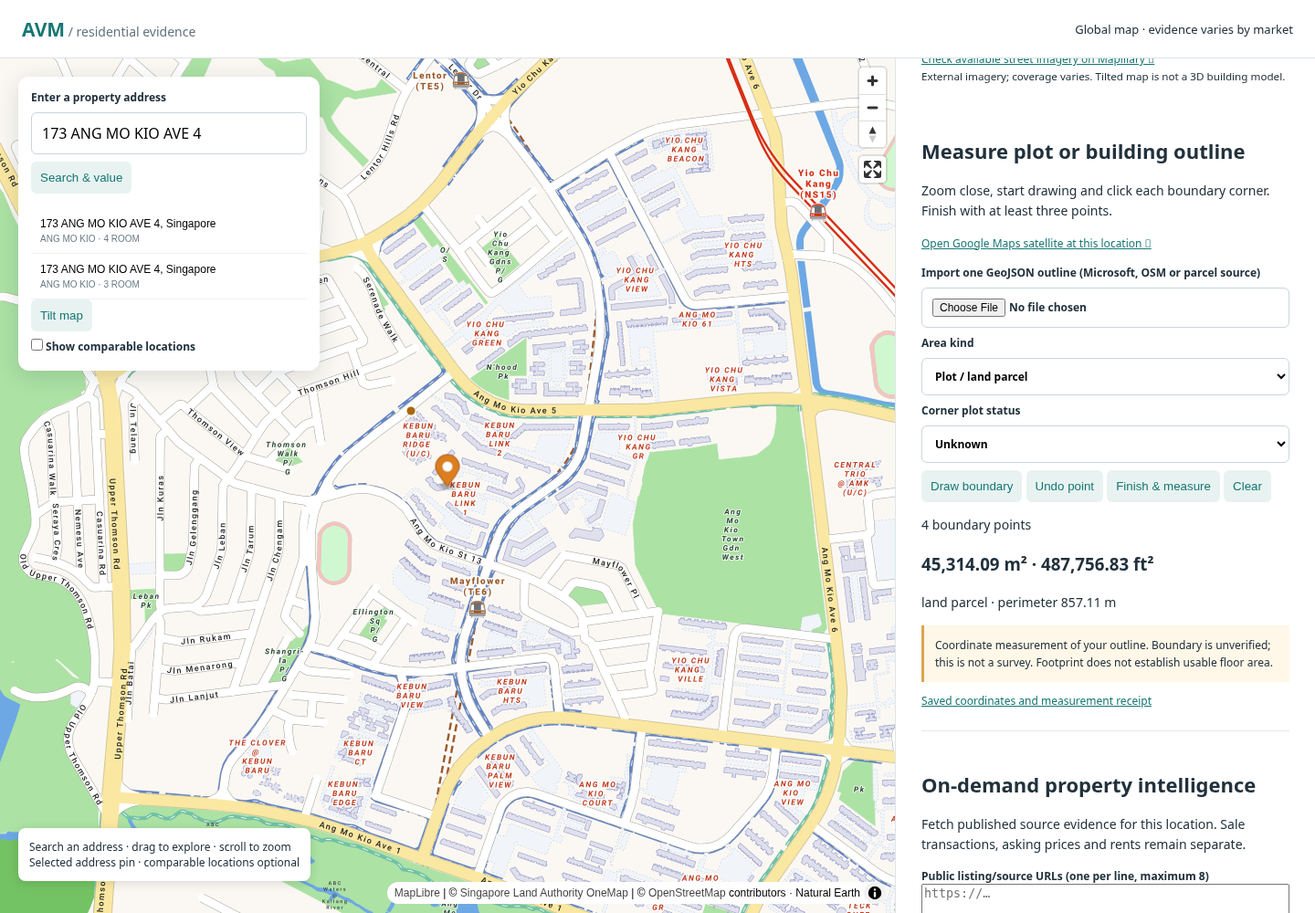
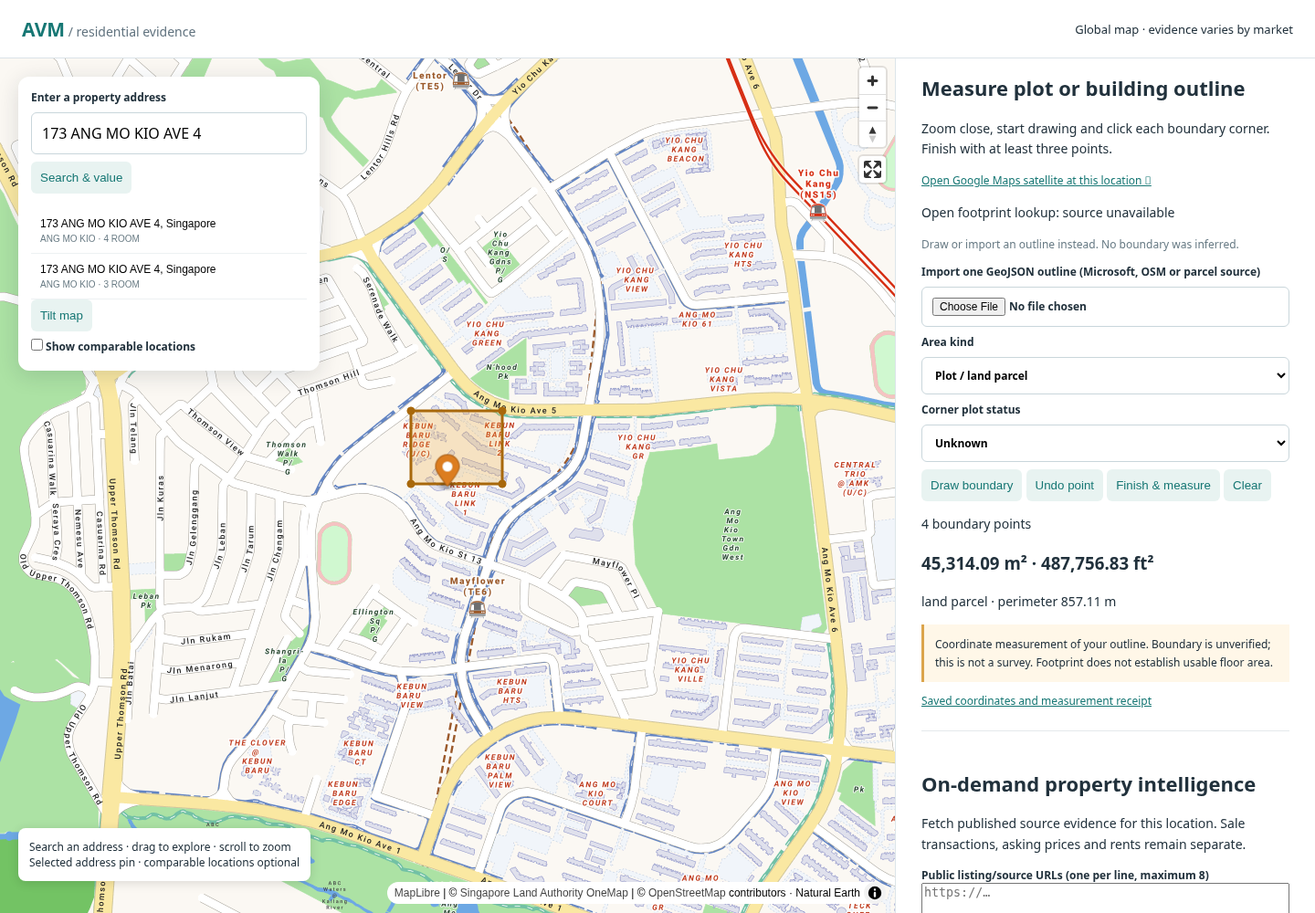
Add optional search and Google imagery with free OSM footprint lookup and PostGIS measurements

diff --git a/frontend/src/GeometryPanel.jsx b/frontend/src/GeometryPanel.jsx
@@ -2,6 +2,8 @@ import React,{useEffect,useState} from 'react';
 export default function GeometryPanel({map,latitude,longitude}) {
   const [drawing,setDrawing]=useState(false),[vertices,setVertices]=useState([]),[kind,setKind]=useState('land parcel'),[corner,setCorner]=useState('unknown'),[result,setResult]=useState(null),[error,setError]=useState('');
   const [source,setSource]=useState('user-drawn outline');
+  const [footprints,setFootprints]=useState(null);
+  useEffect(()=>{const controller=new AbortController();setFootprints(null);fetch(`/footprints?latitude=${latitude}&longitude=${longitude}`,{signal:controller.signal}).then(r=>{if(!r.ok)throw Error();return r.json()}).then(setFootprints).catch(()=>{if(!controller.signal.aborted)setFootprints({status:"source unavailable",features:[],limits:"Draw or import an outline instead."})});return()=>controller.abort()},[latitude,longitude]);
   useEffect(()=>{setDrawing(false);setVertices([]);setResult(null)},[latitude,longitude]);
   useEffect(()=>{if(!map)return;map.__measuring=drawing;const click=e=>{if(drawing){setVertices(v=>[...v,[e.lngLat.lng,e.lngLat.lat]]);setResult(null)}};map.on('click',click);if(drawing)map.getCanvas().style.cursor='crosshair';return()=>{map.off('click',click);map.__measuring=false;map.getCanvas().style.cursor=''}},[map,drawing]);
   useEffect(()=>{
@@ -18,6 +20,7 @@ export default function GeometryPanel({map,latitude,longitude}) {
   async function finish(){setDrawing(false);setError('');try{const r=await fetch('/measurements',{method:'POST',headers:{'Content-Type':'application/json'},body:JSON.stringify({coordinates:vertices,area_kind:kind,corner_status:corner,source})});const body=await r.json();if(!r.ok)throw Error(typeof body.detail==='string'?body.detail:'Check coordinates');setResult(body)}catch(e){setError(e.message)}}
   async function importOutline(event){try{const file=event.target.files[0];if(!file)return;if(file.size>2000000)throw Error('Use a single outline file smaller than 2 MB');let data=JSON.parse(await file.text());if(data.type==='FeatureCollection'){if(data.features.length!==1)throw Error('Import one property outline at a time');data=data.features[0]}const geometry=data.type==='Feature'?data.geometry:data;if(geometry.type!=='Polygon'||geometry.coordinates.length!==1)throw Error('Use a single Polygon without holes');const ring=geometry.coordinates[0];if(ring.length<4||ring.length>201||ring.some(p=>!Array.isArray(p)||p.length!==2||!p.every(Number.isFinite)))throw Error('Invalid polygon coordinates');if(JSON.stringify(ring[0])!==JSON.stringify(ring[ring.length-1]))throw Error('Polygon ring must be closed');setVertices(ring.slice(0,-1));setSource('Imported GeoJSON (user supplied): '+file.name);setDrawing(false);setResult(null);setError('');map.flyTo({center:ring[0],zoom:19})}catch(e){setError(e.message)}event.target.value=''}
   return <section><h2>Measure plot or building outline</h2><p>Zoom close, start drawing and click each boundary corner. Finish with at least three points.</p><p><a href={`https://www.google.com/maps/@${latitude},${longitude},19z/data=!3m1!1e3`} target="_blank" rel="noreferrer">Open Google Maps satellite at this location ↗</a></p>
+    <p>Open footprint lookup: {footprints?.status||'checking nearby mapped buildings'}</p>{footprints?.features.slice(0,5).map(f=><button className="secondary" key={f.properties.id} onClick={()=>{setVertices(f.geometry.coordinates[0].slice(0,-1));setKind('building footprint');setSource(f.properties.source);setDrawing(false);setResult(null)}}>Use mapped building {f.properties.id} · {f.properties.area_sqm} m²</button>)}{footprints&&<p className="muted">{footprints.limits}</p>}
     <label>Import one GeoJSON outline (Microsoft, OSM or parcel source)<input aria-label="Import outline" type="file" accept=".json,.geojson,application/json" onChange={importOutline}/></label>
     <label>Area kind<select aria-label="Area kind" value={kind} onChange={e=>{setKind(e.target.value);setResult(null)}}><option value="land parcel">Plot / land parcel</option><option value="building footprint">Building ground footprint</option></select></label>
     <label>Corner plot status<select value={corner} onChange={e=>{setCorner(e.target.value);setResult(null)}}><option value="unknown">Unknown</option><option value="user confirmed corner">I confirm it is a corner plot</option><option value="user confirmed not corner">I confirm it is not a corner plot</option></select></label>

diff --git a/frontend/src/ImageryPanel.jsx b/frontend/src/ImageryPanel.jsx
@@ -1,0 +1,21 @@
+import React,{useEffect,useRef,useState} from 'react';
+let cesiumLoader;
+function loadCesium(){if(window.Cesium)return Promise.resolve(window.Cesium);if(!cesiumLoader)cesiumLoader=new Promise((resolve,reject)=>{const base='https://cdn.jsdelivr.net/npm/cesium@1.134.1/Build/Cesium/';window.CESIUM_BASE_URL=base;const css=document.createElement('link');css.rel='stylesheet';css.href=base+'Widgets/widgets.css';document.head.appendChild(css);const script=document.createElement('script');script.src=base+'Cesium.js';script.onload=()=>resolve(window.Cesium);script.onerror=()=>{cesiumLoader=null;reject(Error('3D viewer unavailable'))};document.head.appendChild(script)});return cesiumLoader;}
+function GoogleTiles({config,latitude,longitude,onFailure}){
+  const element=useRef(null);
+  useEffect(()=>{let disposed=false,viewer;loadCesium().then(async C=>{if(disposed)return;viewer=new C.Viewer(element.current,{baseLayer:false,globe:false,animation:false,timeline:false,geocoder:false,sceneModePicker:false,baseLayerPicker:false,navigationHelpButton:false,homeButton:false});const tiles=await C.createGooglePhotorealistic3DTileset({key:config.browser_key});if(disposed){tiles.destroy();return}viewer.scene.primitives.add(tiles);viewer.camera.lookAt(C.Cartesian3.fromDegrees(longitude,latitude),new C.HeadingPitchRange(0,C.Math.toRadians(-45),600));viewer.camera.lookAtTransform(C.Matrix4.IDENTITY)}).catch(()=>{if(!disposed)onFailure()});return()=>{disposed=true;if(viewer&&!viewer.isDestroyed())viewer.destroy()}},[config.browser_key,latitude,longitude]);
+  return <div ref={element} style={{height:360,width:'100%'}} aria-label="Google photorealistic 3D tiles"/>;
+}
+export default function ImageryPanel({latitude,longitude}){
+  const [config,setConfig]=useState(null),[mode,setMode]=useState('fallback'),[failed,setFailed]=useState(false);
+  useEffect(()=>{const controller=new AbortController();setConfig(null);setMode('fallback');setFailed(false);fetch(`/imagery?latitude=${latitude}&longitude=${longitude}`,{signal:controller.signal}).then(r=>{if(!r.ok)throw Error();return r.json()}).then(c=>{setConfig(c);if(c.street_view==='available')setMode('street')}).catch(()=>{if(!controller.signal.aborted)setConfig({street_view:"unavailable",browser_key:null,three_d_enabled:false})});return()=>controller.abort()},[latitude,longitude]);
+  const params=new URLSearchParams({key:config?.browser_key||''});
+  if(mode==='street'){if(config?.panorama_id)params.set('pano',config.panorama_id);else params.set('location',`${latitude},${longitude}`)}else{params.set('center',`${latitude},${longitude}`);params.set('zoom','18');params.set('maptype','satellite')}
+  return <section><h2>Street imagery and 3D context</h2><p>Street View: {config?.street_view||'checking availability'}</p>
+    {config?.street_view==='available'&&<button className="secondary" onClick={()=>{setMode('street');setFailed(false)}}>360° Street View</button>}{' '}
+    {config?.browser_key&&<button className="secondary" onClick={()=>{setMode('satellite');setFailed(false)}}>Satellite</button>}{' '}
+    {config?.three_d_enabled&&<button className="secondary" onClick={()=>{setMode('3d');setFailed(false)}}>Google photorealistic 3D</button>}
+    {mode==='3d'&&!failed?<GoogleTiles config={config} latitude={latitude} longitude={longitude} onFailure={()=>{setFailed(true);setMode('satellite')}}/>:config?.browser_key&&mode!=='fallback'?<iframe title={mode==='street'?'Google 360 degree Street View':'Google satellite view'} width="100%" height="320" style={{border:0}} loading="lazy" allowFullScreen referrerPolicy="no-referrer-when-downgrade" src={`https://www.google.com/maps/embed/v1/${mode==='street'?'streetview':'view'}?${params}`}/>:<p className="muted">Google API keys are not configured. OpenStreetMap and outline measurement remain available.</p>}
+    {failed&&<p>3D unavailable; switched to satellite view. Coverage and API permissions vary.</p>}<p><a href={`https://www.google.com/maps/@${latitude},${longitude},19z/data=!3m1!1e3`} target="_blank" rel="noreferrer">Open satellite viewer ↗</a></p><p className="muted">Imagery shows visual context, not verified parcel boundaries. Google services require enabled APIs, appropriate keys and applicable billing.</p>
+  </section>;
+}

diff --git a/frontend/src/main.jsx b/frontend/src/main.jsx
@@ -5,6 +5,7 @@ import 'maplibre-gl/dist/maplibre-gl.css';
 import './style.css';
 import EvidencePanel from './EvidencePanel';
 import GeometryPanel from './GeometryPanel';
+import ImageryPanel from './ImageryPanel';
 const money=n=>n==null?'Unavailable':new Intl.NumberFormat('en-SG',{style:'currency',currency:'SGD',maximumFractionDigits:0}).format(n);
 async function api(path,options){const r=await fetch(path,options);if(!r.ok)throw Error((await r.json()).detail||'Request failed');return r.json();}
 function Timeline({result}){
@@ -82,6 +83,7 @@ function App(){
       </>}
     </>}{!selected&&error&&<p role="alert">{error}</p>}
     {(location||selected)&&<p><a target="_blank" rel="noreferrer" href={'https://www.mapillary.com/app/?lat='+(location?location.lat:selected.latitude)+'&lng='+(location?location.lon:selected.longitude)+'&z=17'}>Check available street imagery on Mapillary ↗</a><br/><small>External imagery; coverage varies. Tilted map is not a 3D building model.</small></p>}
+    {(location||selected)&&<ImageryPanel latitude={location?location.lat:selected.latitude} longitude={location?location.lon:selected.longitude}/>}
     {(location||selected)&&<GeometryPanel map={map.current} latitude={location?location.lat:selected.latitude} longitude={location?location.lon:selected.longitude}/>}
     {(location||selected)&&<EvidencePanel latitude={location?location.lat:selected.latitude} longitude={location?location.lon:selected.longitude} address={location?location.name:selected.address} propertyId={selected?.property_id} currency={selected?.currency||'USD'}/>}
     </aside>

diff --git a/frontend/src/EvidencePanel.jsx b/frontend/src/EvidencePanel.jsx
@@ -24,6 +24,7 @@ export default function EvidencePanel({latitude,longitude,address,propertyId,cur
     {error&&<p role="alert">{error}</p>}
     {result&&<><p className="notice">{result.estimated_value?`Transaction-backed estimate: ${format(result.estimated_value)}`:'Insufficient evidence for a reliable property valuation.'} {result.confidence_reason}</p>
       <p>{result.evidence.length} unique records · {result.duplicates.length} duplicates removed</p>
+      <details open><summary>Automatic web search · {result.web_search?.status||'unavailable'}</summary>{result.web_search?.reason&&<p>{result.web_search.reason}</p>}{result.web_search?.results.map(r=><article key={r.url}><a href={r.url} target="_blank" rel="noreferrer">{r.title||r.url}</a><span>{r.description}</span><small>Search result; price and property identity are unverified.</small></article>)}</details>
       {result.signals.map(s=><article key={s.method}><b>{s.method}: {format(s.value)}</b><span>Observed dispersion {format(s.observed_low)} – {format(s.observed_high)}</span><span>{s.assumption} Unvalidated supporting indication.</span></article>)}
       {result.signal_disagreement!=null&&<p>Signal disagreement: {Math.round(result.signal_disagreement*100)}%</p>}
       {result.source_results.map((s,i)=><p key={i}><a href={s.url} target="_blank" rel="noreferrer">{s.url}</a><br/>{s.status}{s.rows_received!=null&&` · ${s.rows_received} fetched / ${s.usable_one_family_records} usable single-family records`}</p>)}

diff --git a/app/integrations.py b/app/integrations.py
@@ -1,0 +1,54 @@
+"""Credential-gated search and imagery. Search snippets are discovery, not sales."""
+import os,time,threading
+from datetime import datetime,timezone
+from urllib.parse import urlsplit
+import httpx
+
+_cache={}
+_lock=threading.Lock()
+
+def search_address(address,neighbourhood=''):
+    key=os.environ.get('BRAVE_SEARCH_API_KEY')
+    if not key:return {'status':'not configured','provider':'Brave Search','results':[],'reason':'BRAVE_SEARCH_API_KEY is required.'}
+    clean=address.strip().replace('"',' ')[:300]
+    if not clean:return {'status':'address required','provider':'Brave Search','results':[]}
+    cache_key=(clean,neighbourhood[:100])
+    with _lock:
+        cached=_cache.get(cache_key)
+        if cached and time.monotonic()-cached[0]<21600:return {**cached[1],'cache_hit':True}
+    queries=[f'"{clean}" {term}' for term in ('sale','property','price')]
+    if neighbourhood:queries.append(f'"{neighbourhood[:100]}" recent property sales')
+    results={};failed=0
+    with httpx.Client(timeout=10) as client:
+        for query in queries:
+            try:
+                response=client.get('https://api.search.brave.com/res/v1/web/search',params={'q':query,'count':5},headers={'X-Subscription-Token':key,'Accept':'application/json'})
+                response.raise_for_status()
+                for row in response.json().get('web',{}).get('results',[]):
+                    url=row.get('url','');parsed=urlsplit(url)
+                    if parsed.scheme!='https' or not parsed.hostname or parsed.username or parsed.password:continue
+                    identity=(parsed.netloc.lower(),parsed.path.rstrip('/'))
+                    if identity not in results:results[identity]={'url':url,'title':row.get('title',''),'description':row.get('description',''),'queries':[query],'evidence_type':'search result; unverified'}
+                    elif query not in results[identity]['queries']:results[identity]['queries'].append(query)
+            except (httpx.HTTPError,ValueError,TypeError):failed+=1
+    ranked=sorted(results.values(),key=lambda row:len(row['queries']),reverse=True)[:12]
+    result={'status':'ok' if not failed else 'partial' if ranked else 'unavailable','provider':'Brave Search','queries':queries,'results':ranked,'failed_queries':failed,'cache_hit':False,'retrieved_at':datetime.now(timezone.utc).isoformat()}
+    if ranked:
+        with _lock:
+            if len(_cache)>=256:_cache.pop(next(iter(_cache)))
+            _cache[cache_key]=(time.monotonic(),result)
+    return result
+
+def imagery(latitude,longitude):
+    server_key=os.environ.get('GOOGLE_MAPS_SERVER_KEY') or os.environ.get('GOOGLE_MAPS_API_KEY')
+    browser_key=os.environ.get('GOOGLE_MAPS_BROWSER_KEY')
+    result={'street_view':'not configured','browser_key':browser_key,'three_d_enabled':bool(browser_key and os.environ.get('GOOGLE_3D_TILES_ENABLED')=='true'),'fallbacks':['satellite viewer','OpenStreetMap','imported building footprints']}
+    if server_key:
+        try:
+            response=httpx.get('https://maps.googleapis.com/maps/api/streetview/metadata',params={'location':f'{latitude},{longitude}','radius':50,'key':server_key},timeout=10)
+            response.raise_for_status();data=response.json()
+            status=data.get('status','UNKNOWN_ERROR')
+            result['street_view']='available' if status=='OK' and browser_key else 'browser key required' if status=='OK' else 'no coverage' if status=='ZERO_RESULTS' else 'unavailable'
+            if status=='OK':result.update({'panorama_id':data.get('pano_id'),'imagery_date':data.get('date'),'copyright':data.get('copyright'),'panorama_location':data.get('location')})
+        except (httpx.HTTPError,ValueError):result['street_view']='unavailable'
+    return result

diff --git a/tests/test_integrations.py b/tests/test_integrations.py
@@ -1,0 +1,55 @@
+from app.integrations import search_address,imagery,_cache
+from app.footprints import fetch_footprints
+from app.main import app
+from fastapi.testclient import TestClient
+
+def test_missing_keys_fallback_no_invented_search(monkeypatch):
+    for name in ('BRAVE_SEARCH_API_KEY','GOOGLE_MAPS_API_KEY','GOOGLE_MAPS_SERVER_KEY','GOOGLE_MAPS_BROWSER_KEY'):monkeypatch.delenv(name,raising=False)
+    assert search_address('10 Example Street')['results']==[]
+    value=imagery(1,2)
+    assert value['street_view']=='not configured' and not value['three_d_enabled']
+    assert 'OpenStreetMap' in value['fallbacks']
+
+def test_brave_queries_rank_deduplicate_and_cache(monkeypatch):
+    monkeypatch.setenv('BRAVE_SEARCH_API_KEY','unit-test-key');_cache.clear();calls=[]
+    class Response:
+        def raise_for_status(self):pass
+        def json(self):return {'web':{'results':[{'url':'https://example.com/house','title':'Property','description':'An advertisement'},{'url':'https://example.com/house?tracking=1','title':'Duplicate'},{'url':'file:///etc/passwd','title':'Bad'}]}}
+    class Client:
+        def __init__(self,**kwargs):pass
+        def __enter__(self):return self
+        def __exit__(self,*args):pass
+        def get(self,url,params,headers):calls.append(params['q']);return Response()
+    monkeypatch.setattr('app.integrations.httpx.Client',Client)
+    result=search_address('10 Example Street','Sector 9')
+    assert len(calls)==4 and len(result['results'])==1
+    assert len(result['results'][0]['queries'])==4
+    assert result['results'][0]['evidence_type']=='search result; unverified'
+    assert search_address('10 Example Street','Sector 9')['cache_hit'] and len(calls)==4
+
+def test_street_view_metadata_hides_server_key(monkeypatch):
+    monkeypatch.setenv('GOOGLE_MAPS_SERVER_KEY','private-server-key')
+    monkeypatch.setenv('GOOGLE_MAPS_BROWSER_KEY','public-restricted-key')
+    monkeypatch.setenv('GOOGLE_3D_TILES_ENABLED','true')
+    class Response:
+        def raise_for_status(self):pass
+        def json(self):return {'status':'OK','pano_id':'abc','date':'2025-01'}
+    monkeypatch.setattr('app.integrations.httpx.get',lambda *a,**k:Response())
+    result=imagery(1,2)
+    assert result['street_view']=='available' and result['three_d_enabled']
+    assert 'private-server-key' not in str(result)
+    assert TestClient(app).get('/imagery?latitude=91&longitude=0').status_code==422
+
+def test_osm_footprint_measurement_cache_not_parcel(tmp_path,monkeypatch):
+    import json
+    (tmp_path/'data').mkdir()
+    class Response:
+        def __enter__(self):return self
+        def __exit__(self,*args):pass
+        def raise_for_status(self):pass
+        def iter_bytes(self):yield json.dumps({'elements':[{'id':1,'tags':{'building':'yes'},'geometry':[{'lon':0,'lat':0},{'lon':.0001,'lat':0},{'lon':.0001,'lat':.0001},{'lon':0,'lat':.0001},{'lon':0,'lat':0}]}]}).encode()
+    monkeypatch.setattr('app.footprints.httpx.stream',lambda *a,**k:Response())
+    result=fetch_footprints(0,0,tmp_path)
+    assert result['features'][0]['properties']['area_sqm']>100
+    assert not result['features'][0]['properties']['verified_parcel']
+    assert fetch_footprints(0,0,tmp_path)['cache_hit']

diff --git a/app/footprints.py b/app/footprints.py
@@ -1,0 +1,31 @@
+"""Small on-demand OSM outline query, not a global building/parcel import."""
+import hashlib,json,time
+from datetime import datetime,timezone
+import httpx
+from .geometry import MeasurementRequest,measure
+
+def fetch_footprints(latitude,longitude,root):
+    directory=root/'data/footprint-cache';directory.mkdir(exist_ok=True)
+    key=hashlib.sha256(f'{latitude:.6f},{longitude:.6f}|osm-1'.encode()).hexdigest()
+    path=directory/(key+'.json')
+    if path.exists() and time.time()-path.stat().st_mtime<86400:return {**json.loads(path.read_text()),'cache_hit':True}
+    query=f'[out:json][timeout:8];way["building"](around:125,{latitude},{longitude});out meta geom;'
+    try:
+        with httpx.stream('POST','https://overpass-api.de/api/interpreter',data={'data':query},timeout=12,headers={'User-Agent':'AVM-ResearchPreview/1.0 (https://github.com/Intellora-ai/AVM)'}) as response:
+            response.raise_for_status();body=bytearray()
+            for chunk in response.iter_bytes():
+                body.extend(chunk)
+                if len(body)>2000000:raise ValueError('Footprint response exceeds limit')
+        payload=json.loads(body);features=[]
+        for element in payload.get('elements',[])[:100]:
+            points=[(p['lon'],p['lat']) for p in element.get('geometry',[])]
+            if len(points)<4 or len(points)>200 or points[0]!=points[-1]:continue
+            source=f'https://www.openstreetmap.org/way/{element["id"]}'
+            try:metrics=measure(MeasurementRequest(coordinates=points,source=source))
+            except ValueError:continue
+            features.append({'type':'Feature','geometry':metrics['geometry'],'properties':{'id':str(element['id']),'source':source,'source_version':element.get('version'),'source_edit_date':element.get('timestamp'),'tags':element.get('tags',{}),'area_sqm':metrics['area_sqm'],'area_sqft':metrics['area_sqft'],'area_kind':'building footprint','verified_parcel':False}})
+        result={'status':'ok' if features else 'no mapped footprints','type':'FeatureCollection','features':features,'cache_hit':False,'source':'OpenStreetMap / Overpass','license':'ODbL','retrieved_at':datetime.now(timezone.utc).isoformat(),'limits':'Building outlines only; no legal parcels, floor area, corner frontage or survey accuracy is inferred.'}
+        from .intelligence import save_json
+        save_json(path,result);return result
+    except (httpx.HTTPError,ValueError,KeyError,TypeError):
+        return {'status':'source unavailable','type':'FeatureCollection','features':[],'cache_hit':False,'source':'OpenStreetMap / Overpass','limits':'Draw or import an outline instead. No boundary was inferred.'}

diff --git a/app/main.py b/app/main.py
@@ -12,15 +12,35 @@ from .evidence import EvidenceDiscovery
 from pydantic import BaseModel, Field
 from .intelligence import Intelligence, IntelligenceRequest
 from .geometry import MeasurementRequest, measure
+from .integrations import search_address,imagery
+from .footprints import fetch_footprints
 
 repository=Repository()
 discovery=EvidenceDiscovery(repository)
 intelligence=Intelligence(discovery, ROOT)
 app=FastAPI(title='AVM · residential evidence')
+@app.get('/web-search')
+def web_search(address:str=Query(min_length=3,max_length=300),neighbourhood:str=Query(default='',max_length=100)):
+    return search_address(address,neighbourhood)
+
+@app.get('/imagery')
+def property_imagery(latitude:float=Query(ge=-90,le=90),longitude:float=Query(ge=-180,le=180)):
+    return imagery(latitude,longitude)
+
+@app.get('/footprints')
+def property_footprints(latitude:float=Query(ge=-85,le=85),longitude:float=Query(ge=-180,le=180)):
+    return fetch_footprints(latitude,longitude,ROOT)
 @app.post('/measurements')
 def measurement(request:MeasurementRequest):
     try:result=measure(request)
     except ValueError as exc:raise HTTPException(422,str(exc))
+    if repository.url:
+        import psycopg
+        from psycopg.types.json import Jsonb
+        with psycopg.connect(repository.url) as db:
+            db.execute('CREATE TABLE IF NOT EXISTS avm_measurements(id text PRIMARY KEY, outline geography(Polygon,4326), payload jsonb NOT NULL)')
+            db.execute('CREATE INDEX IF NOT EXISTS avm_measurements_geo ON avm_measurements USING gist(outline)')
+            db.execute('INSERT INTO avm_measurements VALUES (%s,ST_SetSRID(ST_GeomFromGeoJSON(%s),4326)::geography,%s) ON CONFLICT DO NOTHING',(result['measurement_id'],json.dumps(result['geometry']),Jsonb(result)))
     path=ROOT/'data/measurements';path.mkdir(exist_ok=True)
     (path/(result['measurement_id']+'.json')).write_text(json.dumps(result))
     return result
@@ -28,6 +48,13 @@ def measurement(request:MeasurementRequest):
 @app.get('/measurements/{key}')
 def measurement_receipt(key:str):
     if not re.fullmatch('[a-f0-9]{64}',key):raise HTTPException(404)
+    if repository.url:
+        import psycopg
+        with psycopg.connect(repository.url) as db:
+            exists=db.execute("SELECT to_regclass('public.avm_measurements')").fetchone()[0]
+            if exists:
+                row=db.execute('SELECT payload FROM avm_measurements WHERE id=%s',(key,)).fetchone()
+                if row:return row[0]
     path=ROOT/'data/measurements'/(key+'.json')
     if not path.exists():raise HTTPException(404)
     return json.loads(path.read_text())

diff --git a/app/intelligence.py b/app/intelligence.py
@@ -17,7 +17,7 @@ from urllib.parse import urljoin, urlsplit, urlunsplit
 import httpx
 from pydantic import BaseModel, Field
 
-VERSION = 'web-evidence-1'
+VERSION = 'web-evidence-2'
 RELIABILITY = {'registered_transaction': .95, 'closed_sale': .8,
     'asking_price': .45, 'rental_price': .45, 'auction': .35,
     'historical_asking_price': .25, 'historical_rental_price': .25,
@@ -234,6 +234,11 @@ class Intelligence:
         self.discovery = discovery; self.root = Path(root)
     def run(self, request):
         location = self.discovery.discover(request.latitude, request.longitude)
+        from .integrations import search_address
+        resolved=location.get('address') or {}
+        parts=resolved.get('address') or {}
+        address=request.address if request.address and request.address!='Selected map location' else resolved.get('display_name','')
+        search=search_address(address,parts.get('neighbourhood',parts.get('suburb','')))
         records = []; source_results = []
         now = datetime.now(timezone.utc).isoformat()
         directory = self.root / 'data/web-evidence'; directory.mkdir(parents=True, exist_ok=True)
@@ -285,9 +290,9 @@ class Intelligence:
             'duplicates': duplicates, 'eligible_comparables': eligible, 'rejected_evidence': rejected,
             'signals': signals, 'signal_disagreement': disagreement,
             'historical_value': None, 'forecasts': [],
-            'source_results': source_results, 'valuation_date': date.today().isoformat(), 'retrieved_at': now,
+            'source_results': source_results, 'web_search':search,'valuation_date': date.today().isoformat(), 'retrieved_at': now,
             'model_version': VERSION, 'data_version': self.discovery.repository.version,
-            'limitations': ['Web discovery currently uses address lookup and supplied public source URLs; automated web search is not connected.',
+            'limitations': ['Automatic search requires a configured Brave Search key. Search snippets are discovery links, not verified prices. Only supplied URLs are fetched for structured extraction.',
                 'No rental yield, local appreciation rate or transaction completion is inferred from an advertisement.',
                 'Signal ranges describe observed dispersion, not calibrated valuation intervals.',
                 'Nearby block/type choices require explicit selection; they do not resolve an individual apartment.']}

diff --git a/docs/SOURCE_INTEGRATIONS.md b/docs/SOURCE_INTEGRATIONS.md
@@ -1,0 +1,84 @@
+# Search, imagery and minimal free spatial pipeline
+
+## Search and Google integrations
+
+The backend uses one provider, Brave Search. `BRAVE_SEARCH_API_KEY` enables
+address sale/property/price queries plus a neighborhood recent-sales query.
+It returns at most 12 deduplicated, ranked discovery links, caches successful
+results for six hours and records them in intelligence receipts. Search snippets
+do not become verified transaction prices. There is no recursive crawler.
+`GET /web-search?address=...` can also be used independently.
+
+Google's Street View metadata API checks coverage within 50 m. Configure
+`GOOGLE_MAPS_SERVER_KEY` for metadata and `GOOGLE_MAPS_BROWSER_KEY` for the
+360° Maps Embed viewer. The server key is never returned to the client. Restrict
+the public browser key to your website and required APIs. Enable the Street View
+Static and Maps Embed APIs as appropriate to the two calls. Billing/quotas and
+provider terms apply; free source data is not a guarantee of free API usage.
+
+Setting `GOOGLE_3D_TILES_ENABLED=true` explicitly enables the 3D button. It uses
+CesiumJS 1.134.1 and Google Photorealistic 3D Tiles with the browser key; enable
+Google Map Tiles API. No Cesium ion token is required. Google/Cesium attribution
+is left visible. 3D is loaded on button press, not for every valuation. Failed 3D
+loading switches to satellite embed; absent keys leave OSM and outline tools usable.
+Street View metadata errors/no coverage are shown. A Google satellite viewer link
+is available even without API integration. Google embed permission errors within
+the cross-origin iframe cannot be reliably detected by the parent app.
+
+Set variables in the environment before launching; `.env.example` lists names.
+Alternatively copy that template to the ignored `.env` file and fill values locally;
+`start.command` loads it through Uvicorn's dotenv support. Docker Compose also
+passes these optional settings through to the web service. Do not commit keys.
+Neither provider credential was present
+during development, so authenticated live search, Google coverage and 3D rendering
+remain unverified. Their integration logic is tested with controlled API responses.
+
+## Free outline lookup and measurement
+
+Address selection requests OSM building ways within 125 m via Overpass. Up to 100
+simple closed outlines are normalized, measured with WGS84 and cached for a day.
+The panel offers up to five outline choices; users confirm the appropriate building.
+It does not silently treat the nearest building as a legal plot or a particular unit.
+Original OSM way references/tags and ODbL attribution are retained. Complex
+multipolygon relations/holes are not implemented and are not approximated silently.
+
+Live Overpass, Overture STAC and Microsoft Planetary Computer requests were denied
+by the cloud's network policy during this work. The OSM adapter is implemented and
+its normalization/cache are tested, but no live footprint success is claimed. Manual
+drawing and single-Polygon GeoJSON imports remain available. Existing Microsoft
+and Overture footprint downloads can be converted to individual GeoJSON outlines
+outside the app; automatic Overture/Microsoft retrieval is not implemented here.
+
+With `DATABASE_URL`, measurement polygons and immutable receipt payloads are also
+stored as PostGIS `geography(Polygon,4326)` with a GiST index. Use `ST_Area(outline)`
+for square metres and `ST_Perimeter(outline)` for metres. The WGS84 measurement
+API continues to work without PostgreSQL. Measurement is horizontal geodesic area,
+not sloped terrain surface area. SQL spatial indexing improves selected queries;
+it does not make arbitrary analysis of billions of polygons instantaneous.
+
+## Deliberate exclusions
+
+- **Voronoi parcel guessing:** partitions distance to address points, not ownership.
+  It must not supply plot sizes, setbacks, frontage or valuations as if measured.
+- **SAM/edge filters as precision boundary generators:** segmentation can assist
+  suitable high-resolution imagery, but cannot recover fences/roof details absent
+  from a 10 m raster. It also cannot establish legal boundaries.
+- **Automatic height/floors from arbitrary DEM:** a terrain DEM is not building
+  height. DSM-minus-DTM needs compatible resolution, dates and vertical datums;
+  height divided by a guessed floor height is not measured unit floor area.
+- **Global terrain engine or QGIS/GRASS/GDAL stack initially:** unnecessary for
+  existing polygon measurement. Add raster processing only for a measured benefit,
+  e.g. documented flood/terrain-risk features with validated source resolution.
+- **Imagery-based corner premium:** nearby roads are not legal frontage. Corner
+  access, traffic and market preferences must be supported by parcel/road records
+  and sales evidence; no universal uplift is applied.
+
+Sentinel-2, Landsat, SAR and open elevation sources can supply useful context,
+but revisit interval, cloud cover, resolution, archive availability and licenses
+differ by product. Earth Engine requires registration/project setup and usage
+terms; commercial usage is not automatically free. Sentinel Hub is not an unlimited
+free high-resolution API. ASF downloads can require Earthdata authentication.
+Overture's datasets have theme/source-specific licensing; do not assume every layer
+has one blanket ODbL license. Building footprints and administrative boundaries
+are not cadastral parcels. Free data/software still require compute, storage and
+operations. These sources will not be substituted for missing measurements.

diff --git a/README.md b/README.md
@@ -73,6 +73,12 @@ HDB sales/buildings: data.gov.sg and original Singapore government data terms. C
 This is a buyer research tool. Private residential Singapore property, exact apartment history and majority-world valuation coverage have not yet been demonstrated. Public hosting, HTTPS, backups and ongoing refresh/monitoring remain deployment work.
 # On-demand worldwide discovery
 
+Automatic Brave web-search and optional Google 360° Street View/Photorealistic 3D
+Tiles integrations are now available behind API-key configuration. OSM building
+footprint lookup requests only a 125 m area around the selected address; source
+failures leave drawing/import available. No parcel is invented from a building
+outline. See [configuration, tested behavior and exclusions](docs/SOURCE_INTEGRATIONS.md).
+
 After selecting an address, use **Measure plot or building outline**. Draw the
 boundary on the map or import one Polygon GeoJSON outline, then finish to obtain
 WGS84 area in m²/ft², perimeter and a saved coordinate receipt. Google satellite
